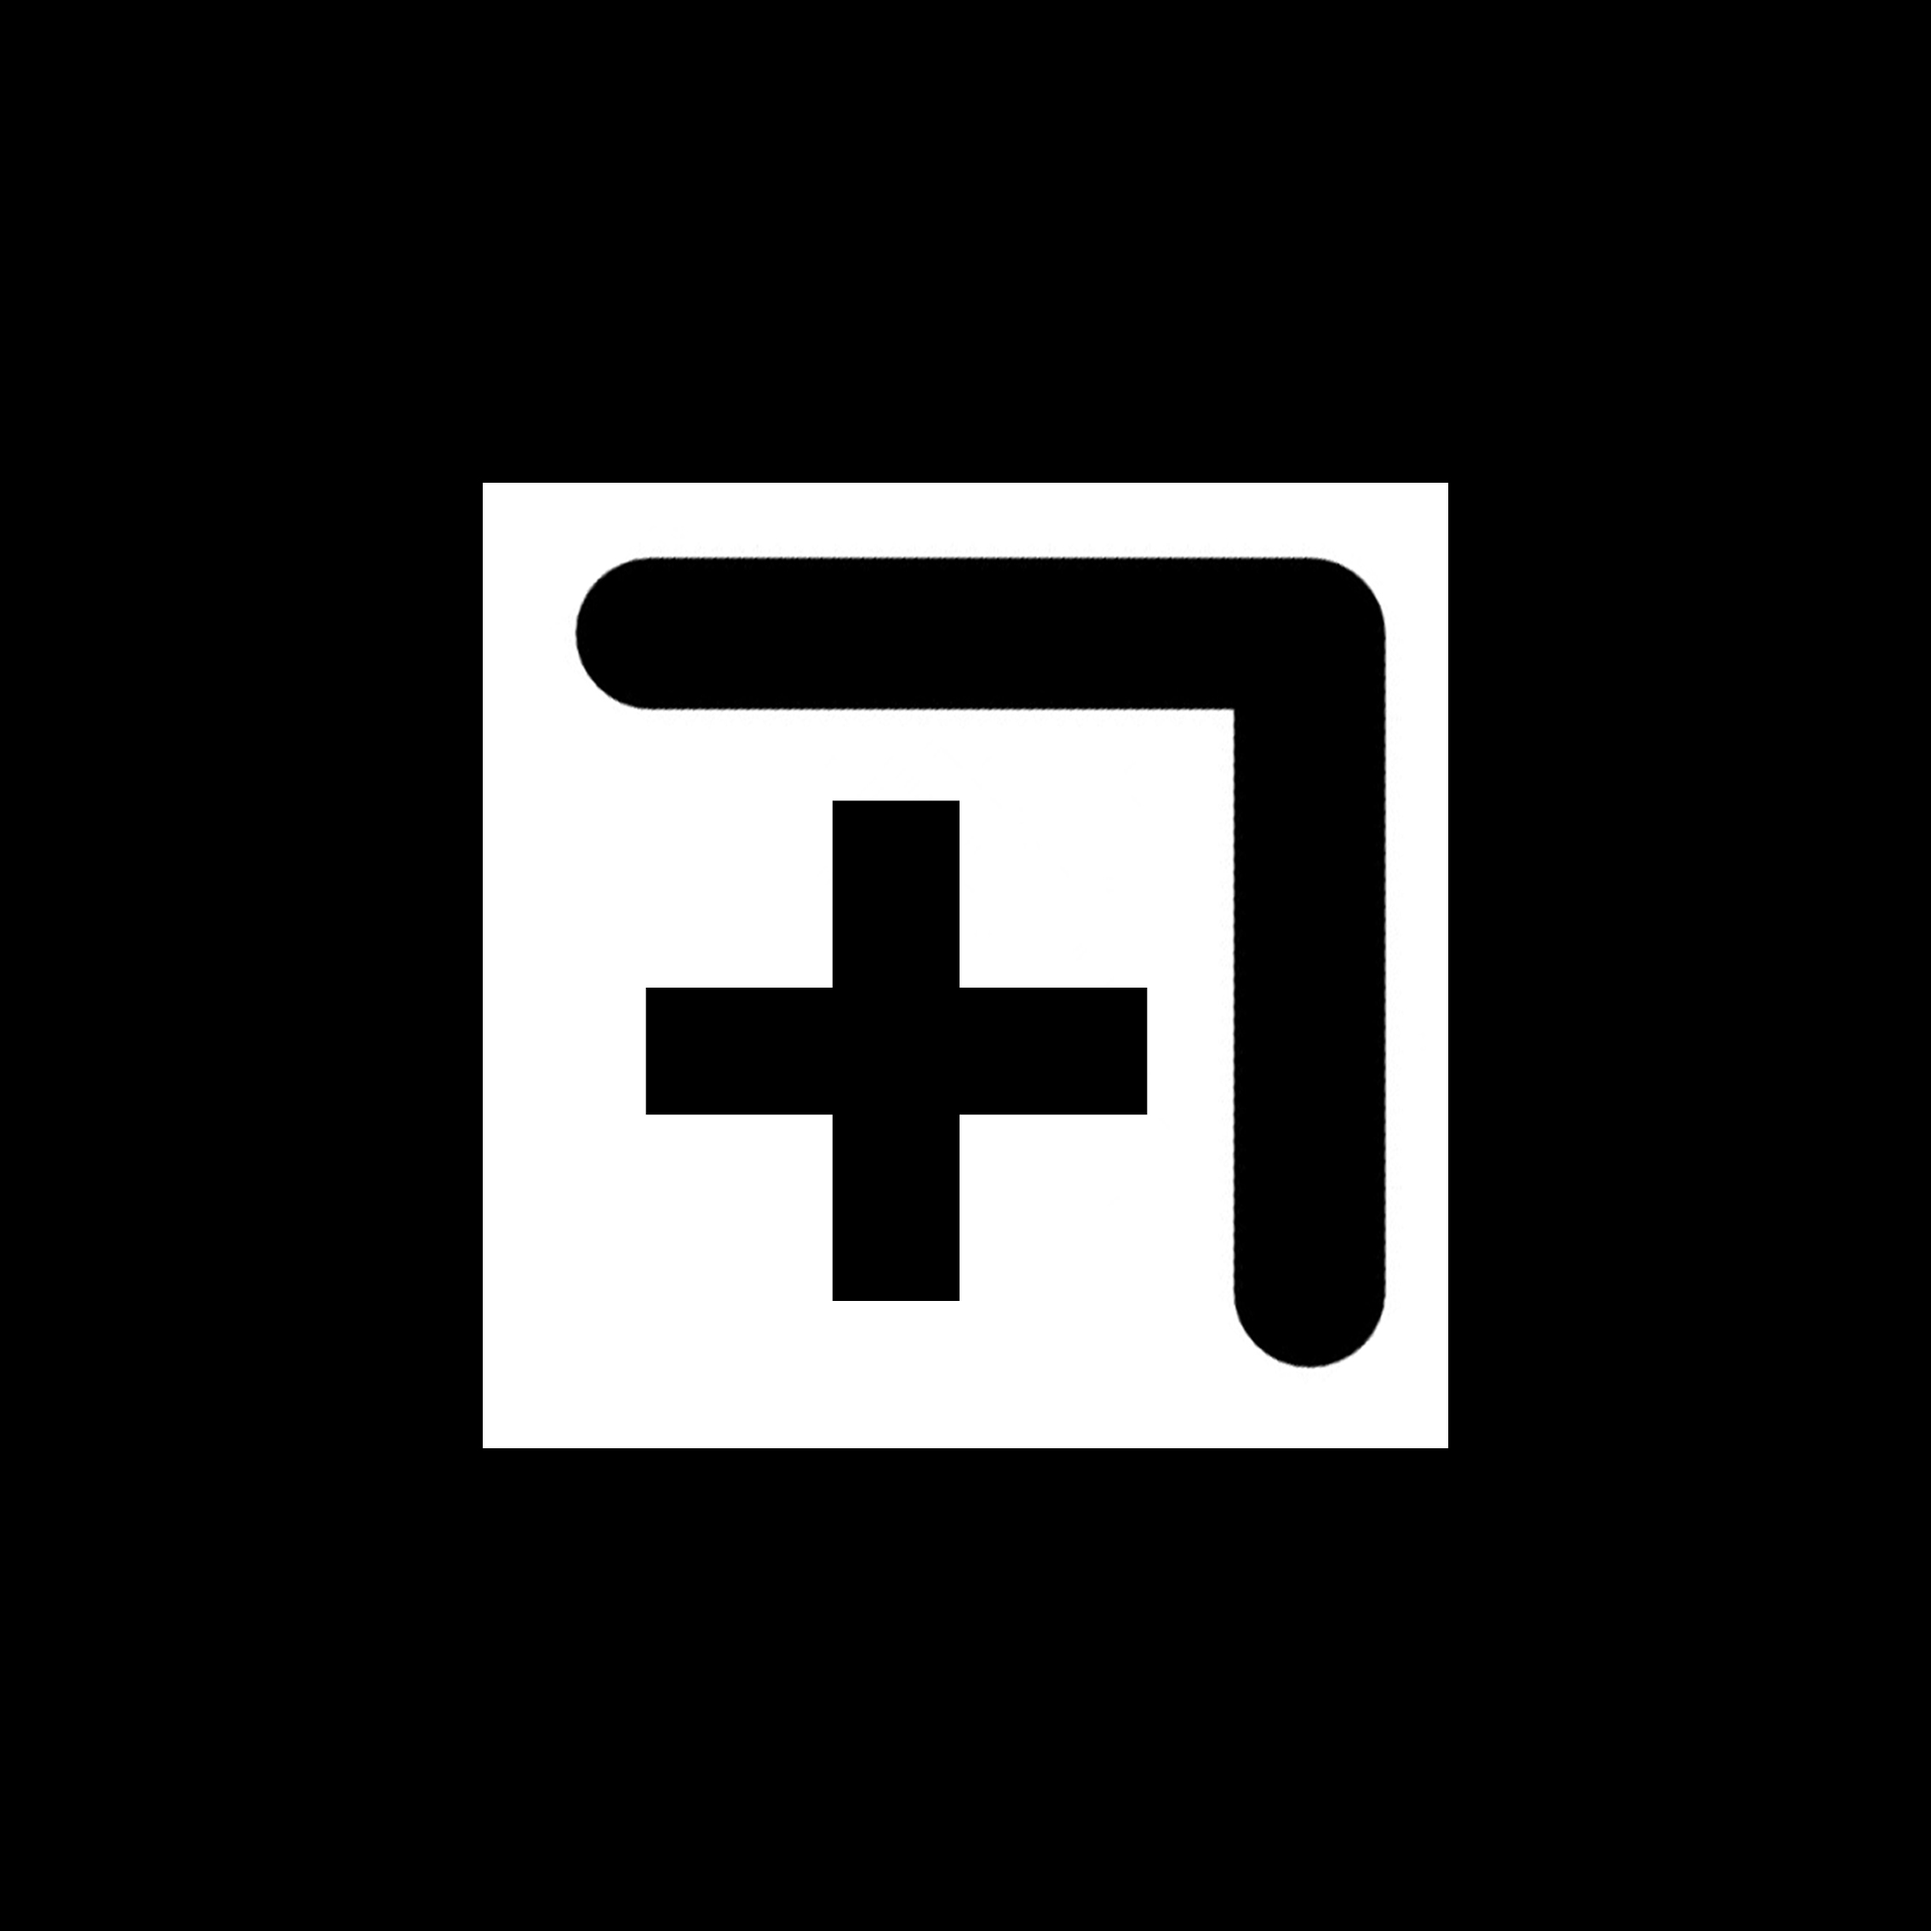
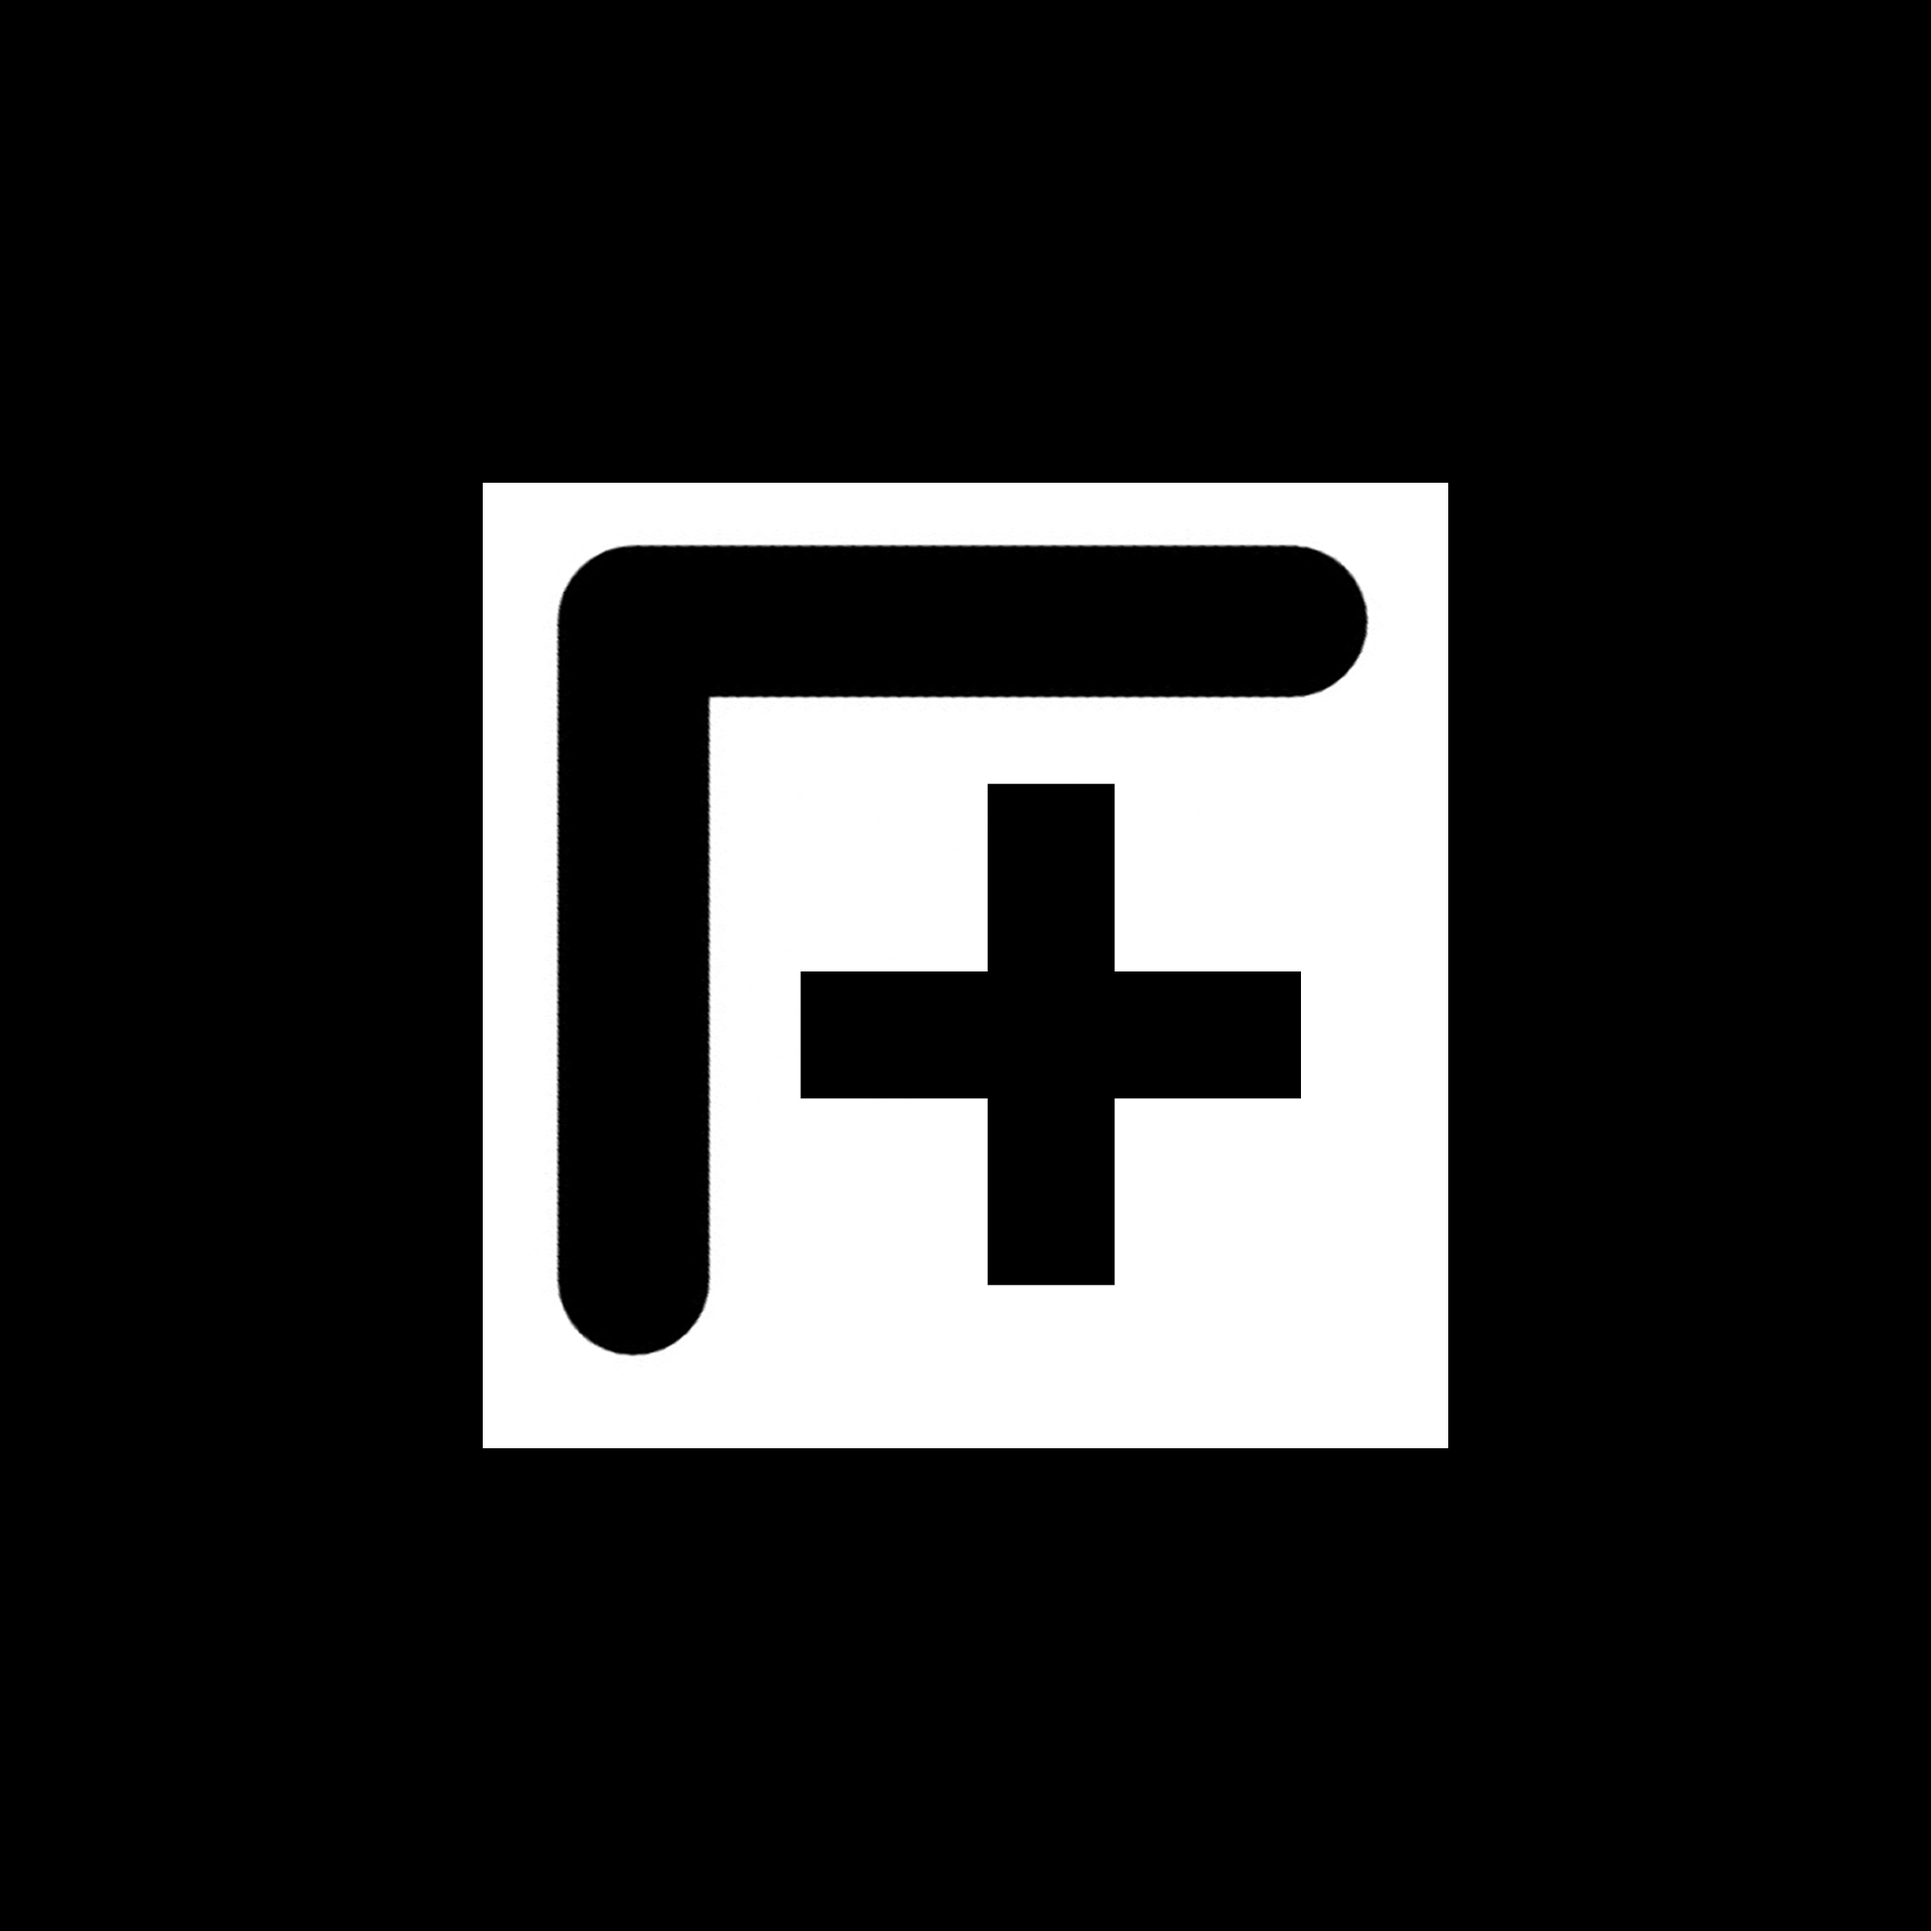
Se giro el marcador de la esquina superior derecha y Se crearon los scripts de comportamiento para las flechas

Changed region(s): [[0.2778, 0.2778, 0.7407, 0.7099]]

diff --git a/Assets/Marker_Right.cs b/Assets/Marker_Right.cs
@@ -1,0 +1,16 @@
+using System.Collections;
+using System.Collections.Generic;
+using UnityEngine;
+
+public class Marker_Right : MonoBehaviour {
+
+	// Use this for initialization
+	void Start () {
+		
+	}
+	
+	// Update is called once per frame
+	void Update () {
+		
+	}
+}

diff --git a/Assets/Marker_Left.cs b/Assets/Marker_Left.cs
@@ -1,0 +1,16 @@
+using System.Collections;
+using System.Collections.Generic;
+using UnityEngine;
+
+public class Marker_Left : MonoBehaviour {
+
+	// Use this for initialization
+	void Start () {
+		
+	}
+	
+	// Update is called once per frame
+	void Update () {
+		
+	}
+}

diff --git a/Assets/Marker_UR.cs b/Assets/Marker_UR.cs
@@ -1,0 +1,16 @@
+using System.Collections;
+using System.Collections.Generic;
+using UnityEngine;
+
+public class Marker_UR : MonoBehaviour {
+
+	// Use this for initialization
+	void Start () {
+		
+	}
+	
+	// Update is called once per frame
+	void Update () {
+		
+	}
+}

diff --git a/Assets/Marker_Ul.cs b/Assets/Marker_Ul.cs
@@ -1,0 +1,16 @@
+using System.Collections;
+using System.Collections.Generic;
+using UnityEngine;
+
+public class Marker_Ul : MonoBehaviour {
+
+	// Use this for initialization
+	void Start () {
+		
+	}
+	
+	// Update is called once per frame
+	void Update () {
+		
+	}
+}

diff --git a/Assets/Marker_Up.cs b/Assets/Marker_Up.cs
@@ -1,0 +1,16 @@
+using System.Collections;
+using System.Collections.Generic;
+using UnityEngine;
+
+public class Marker_Up : MonoBehaviour {
+
+	// Use this for initialization
+	void Start () {
+		
+	}
+	
+	// Update is called once per frame
+	void Update () {
+		
+	}
+}
